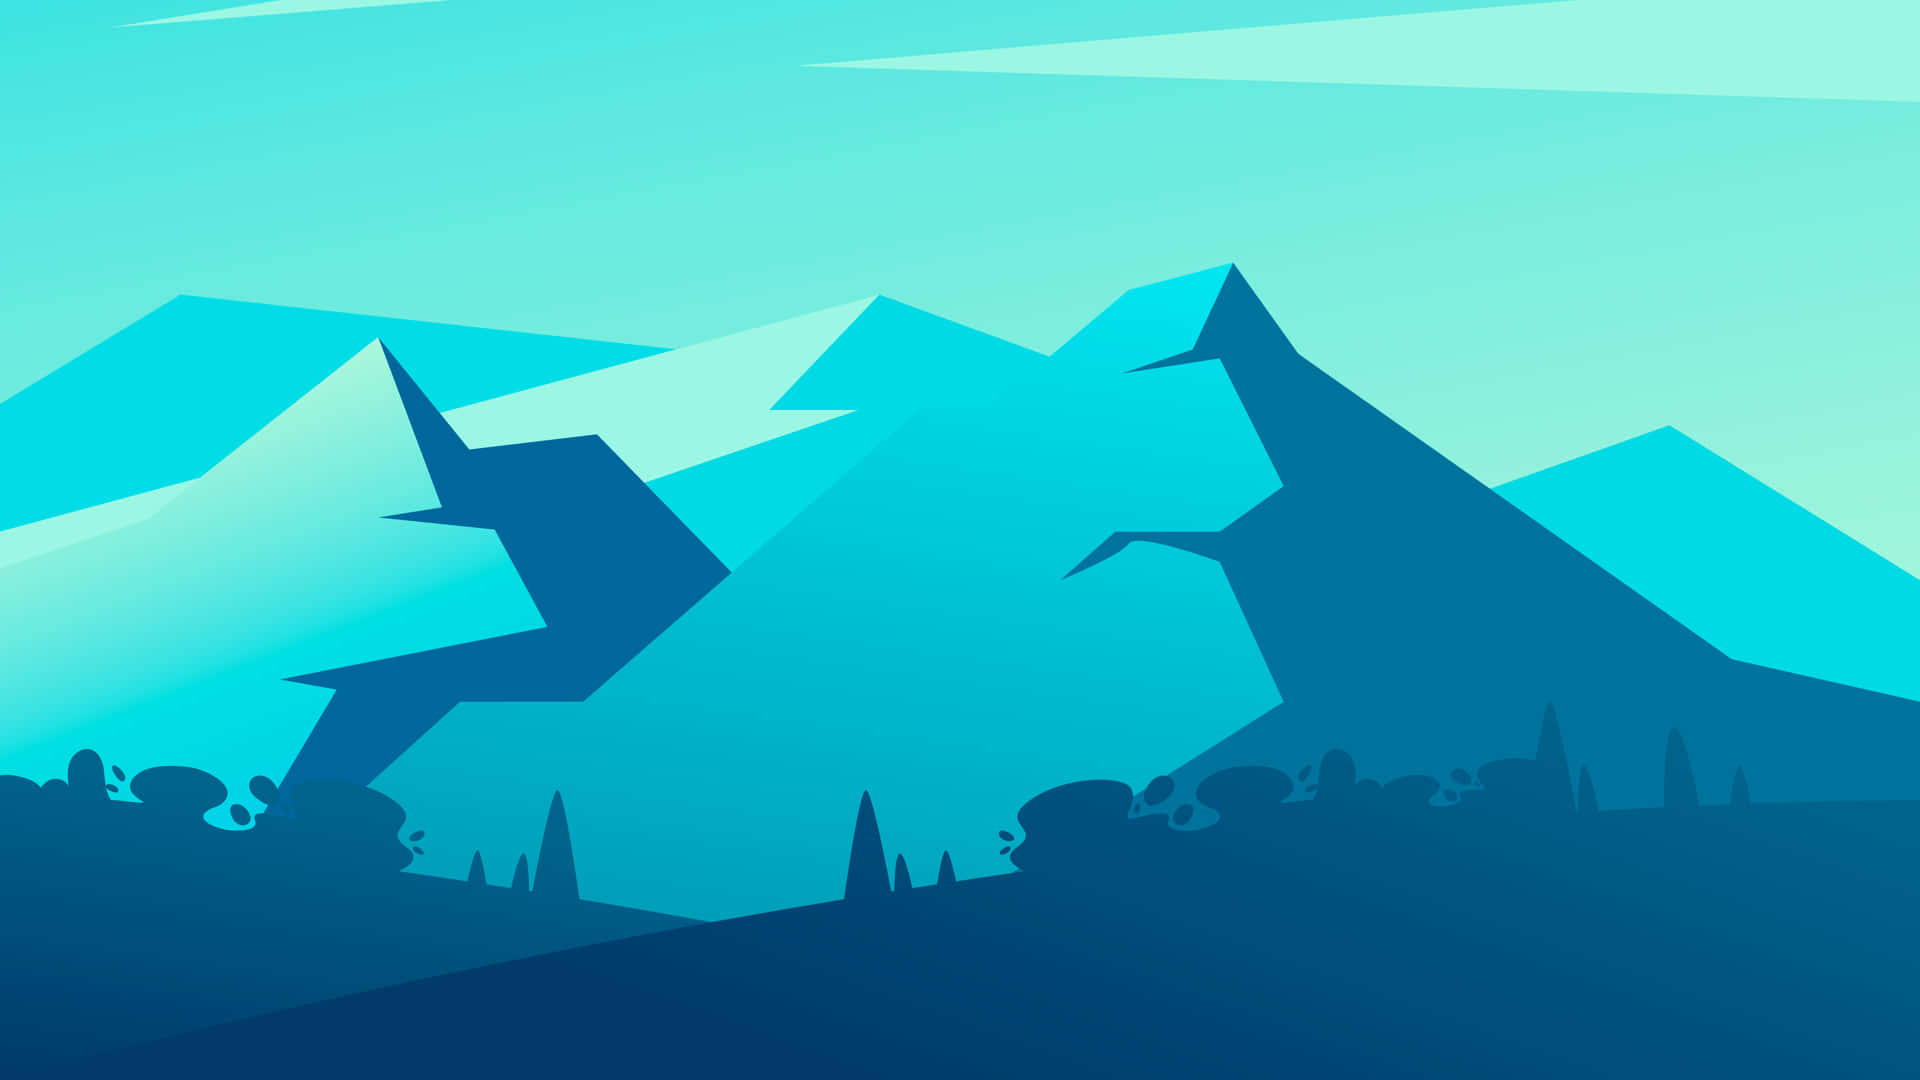
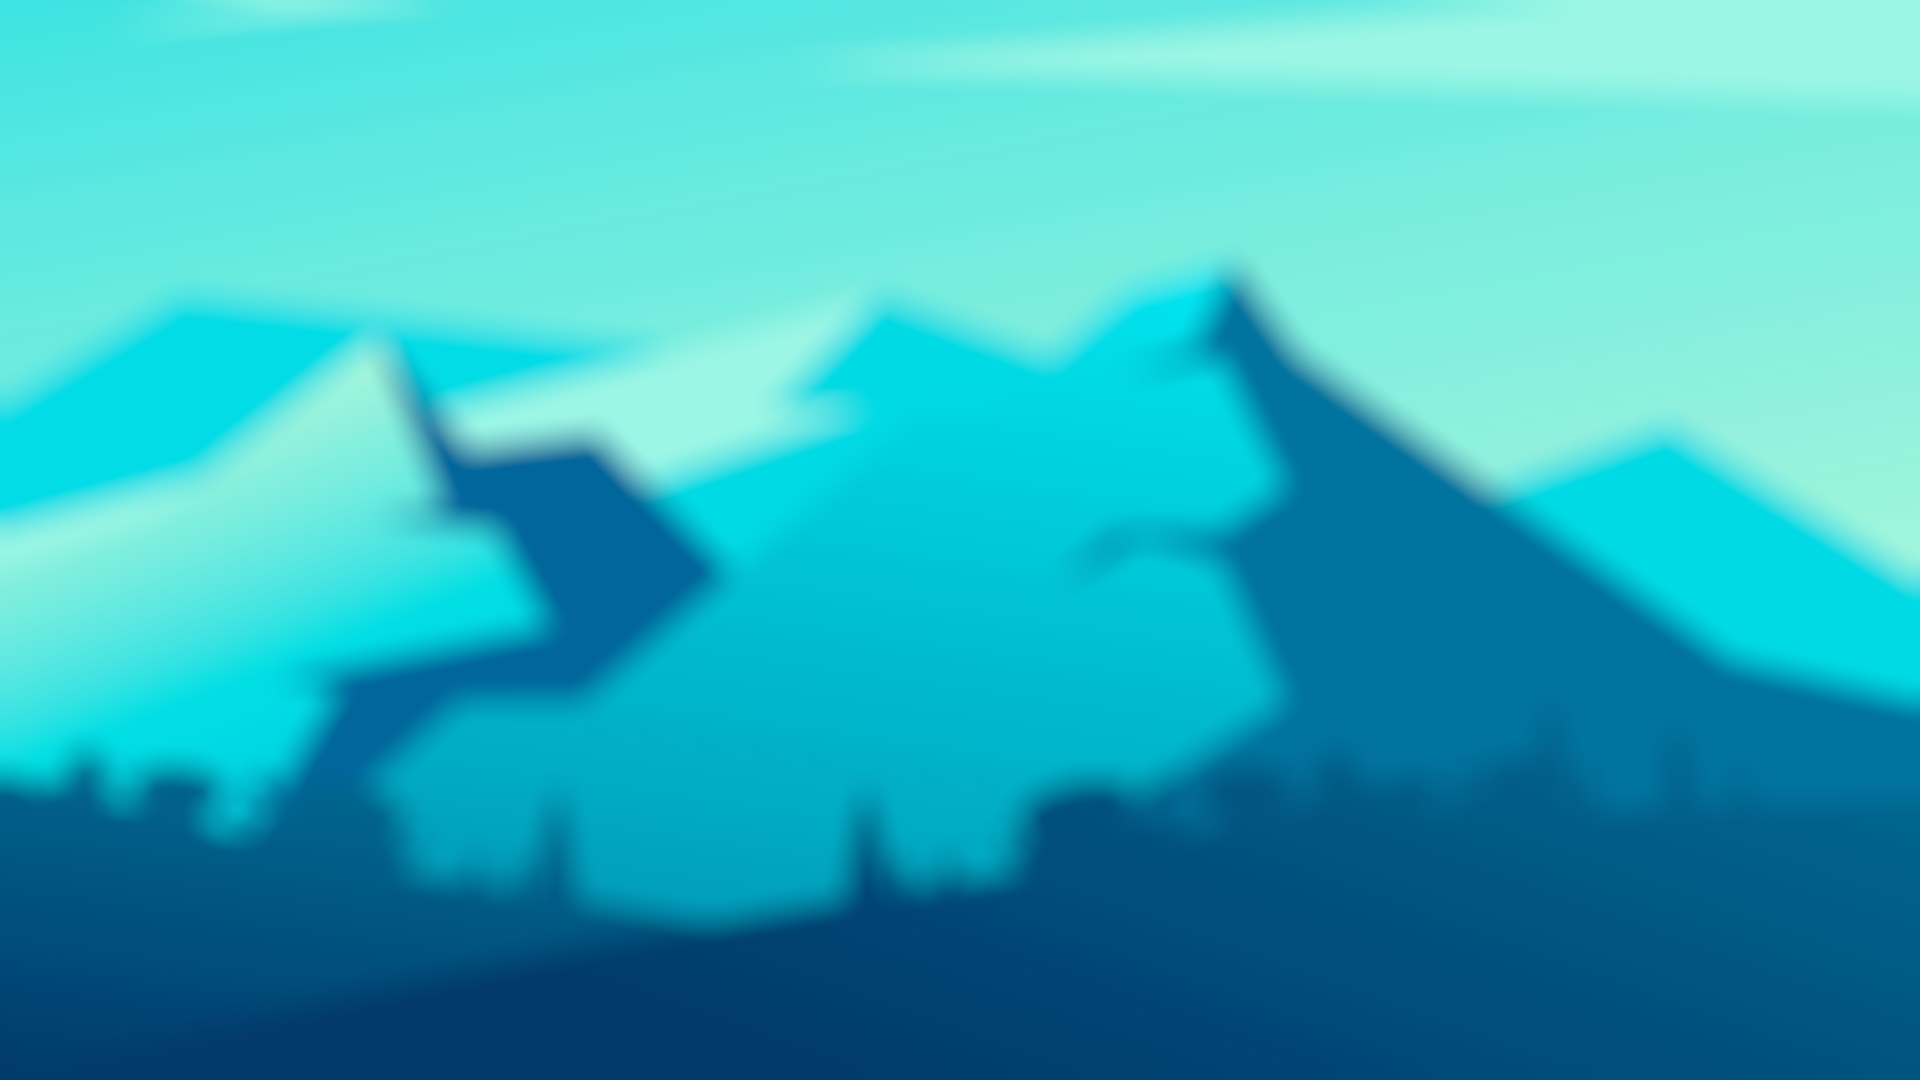
✨Fix some visual issues

diff --git a/assets/css/style.css b/assets/css/style.css
@@ -1,15 +1,9 @@
 @import url('https://fonts.googleapis.com/css2?family=DM+Sans:wght@600&family=Poppins&display=swap');
 
 .bg {
-  /* background: #19191B; */
-  border-radius: 16px;
-  box-shadow: 0 4px 30px rgba(0, 0, 0, .1);
-  backdrop-filter: blur(12.1px);
-  -webkit-backdrop-filter: blur(12.1px);
   background-image: url(/assets/img/bg.jpg);
   background-position: center;
   background-attachment: fixed;
-  height: 100vh;
   color: #FEFFFE;
 }
 
